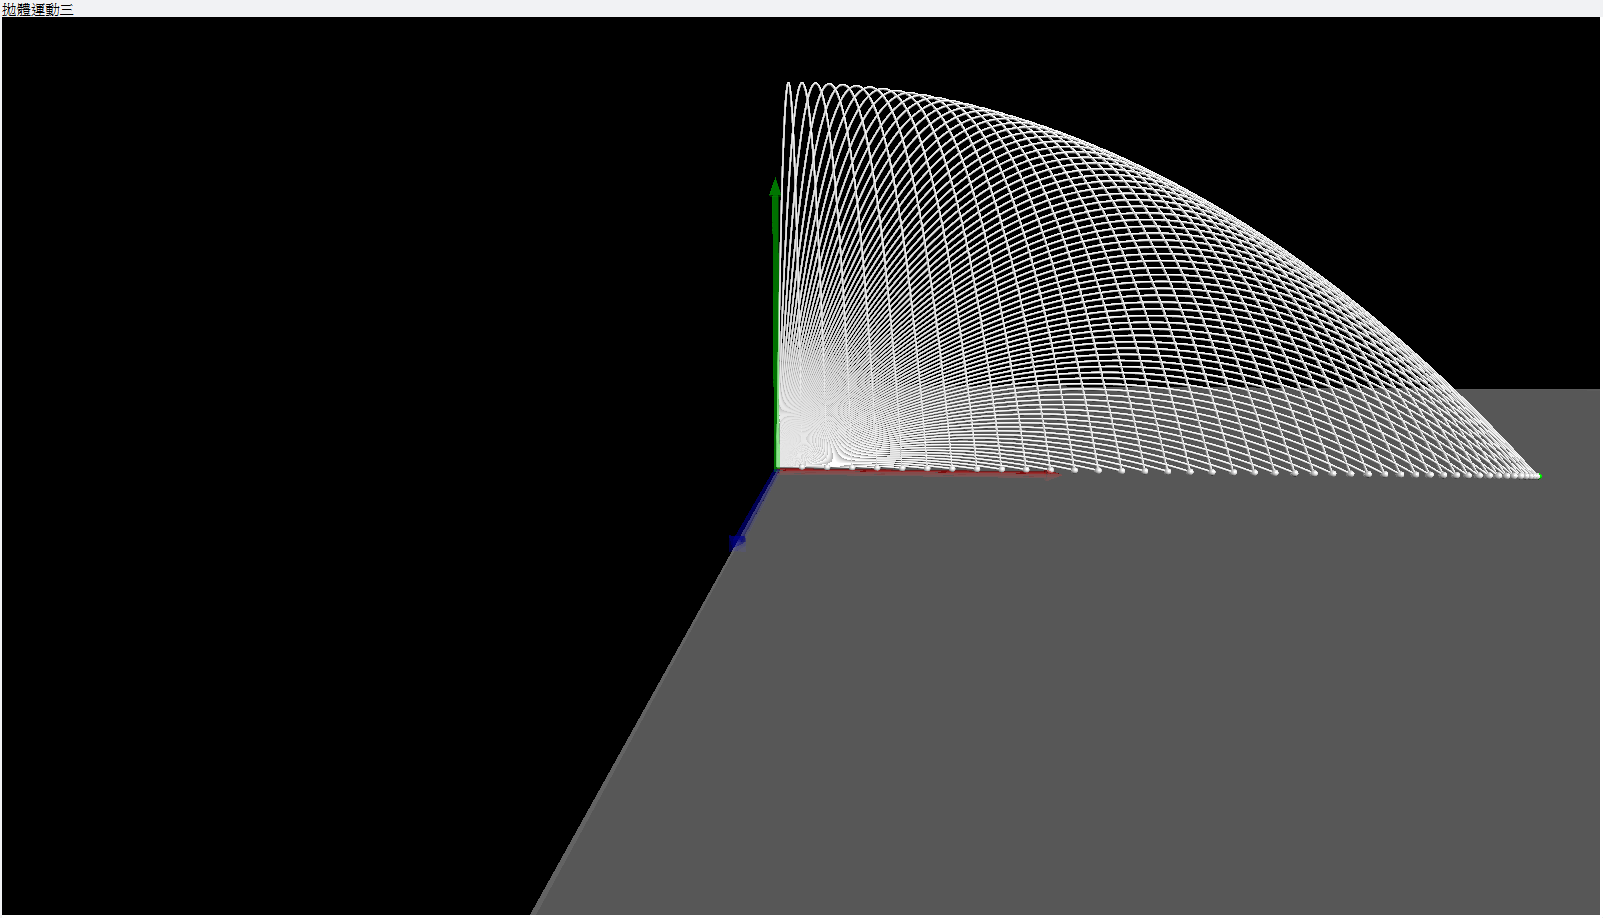
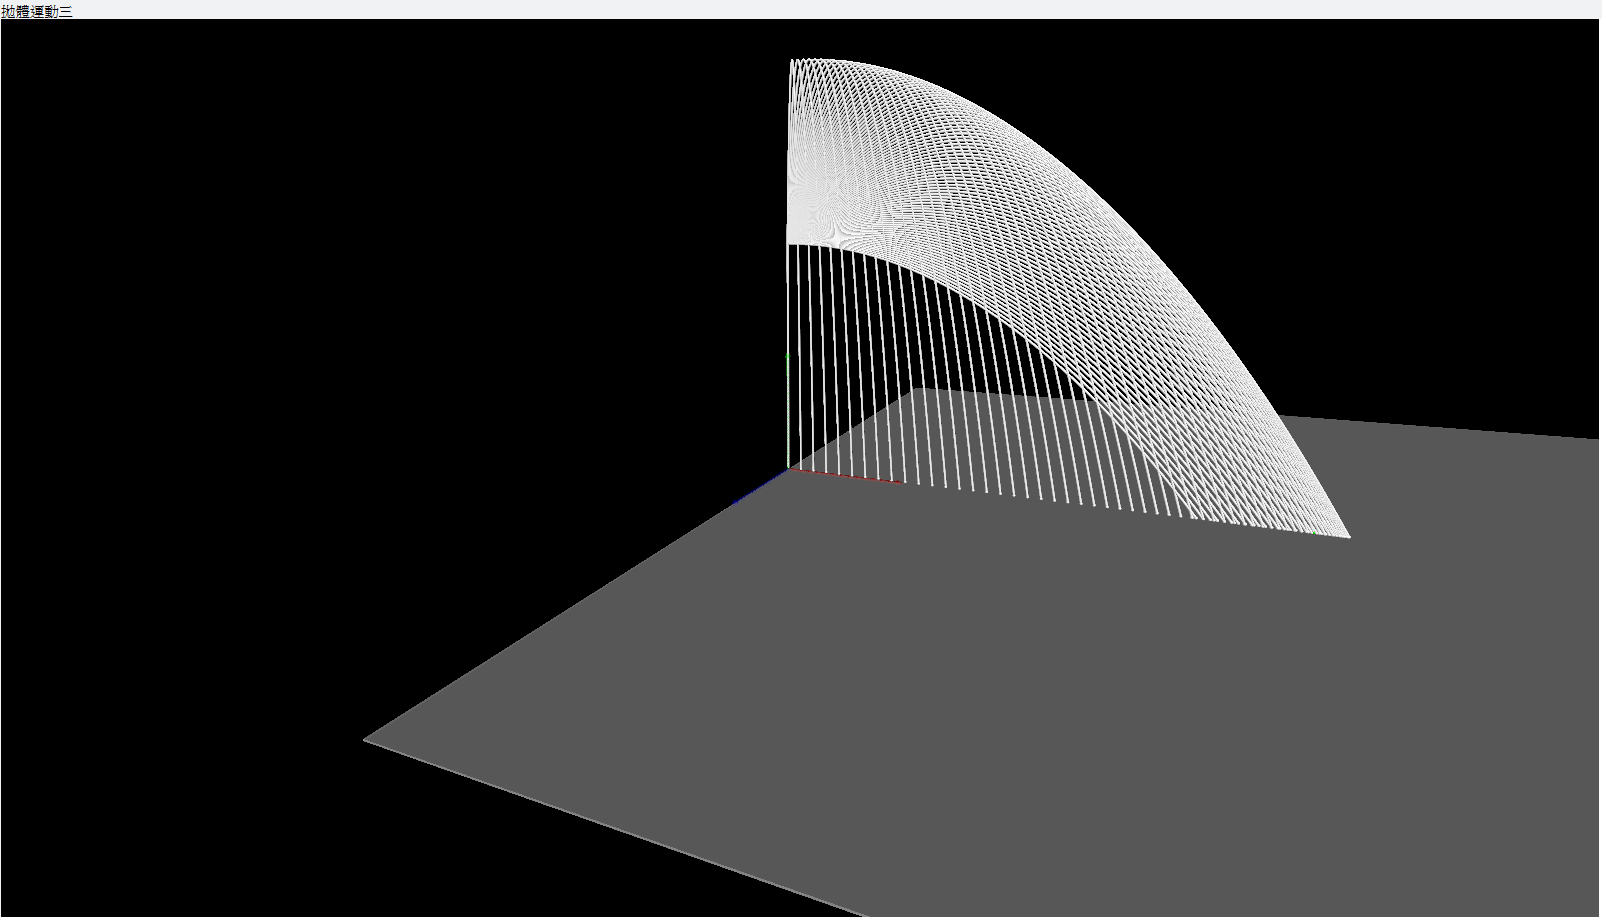
update

Changed region(s): [[0.2185, 0.061, 0.9988, 1.0], [0.0, 0.0, 0.0624, 0.0305]]

diff --git a/第一堂課-拋體運動三/拋體運動三鉛球1to89csv.py b/第一堂課-拋體運動三/拋體運動三鉛球1to89csv.py
@@ -39,6 +39,7 @@ for bangle in range(1,90):
 
 	ball_b.theta = the
 	ball_b.y0 = ball_b.pos.y
+	ball_b.pos.y += 1.8
 	ball_b.m = mass
 	ball_b.v0 = v0
 	ball_b.v = vector(          

diff --git a/第一堂課-拋體運動三/README.md b/第一堂課-拋體運動三/README.md
@@ -31,9 +31,10 @@
       再靠近一點看<br>
       ![This is an image](/第一堂課-拋體運動三/1to89close.png)<br>
       確定45度並非最遠之拋射角，大概位於41至42度區間<br>
-      接下來換成是鉛球
+      接下來換成是鉛球<br>
       ![This is an image](/第一堂課-拋體運動三/1to89hf.png)<br>
-      看來結果有點意外
+      看來結果有點意外，靠近一點看<br>
       ![This is an image](/第一堂課-拋體運動三/1to89hclose.png)<br>
+      45度的確是最
   - 結論<br>
       經過python的作圖分析與csv之數據比對結果，得知``確實有影響``
